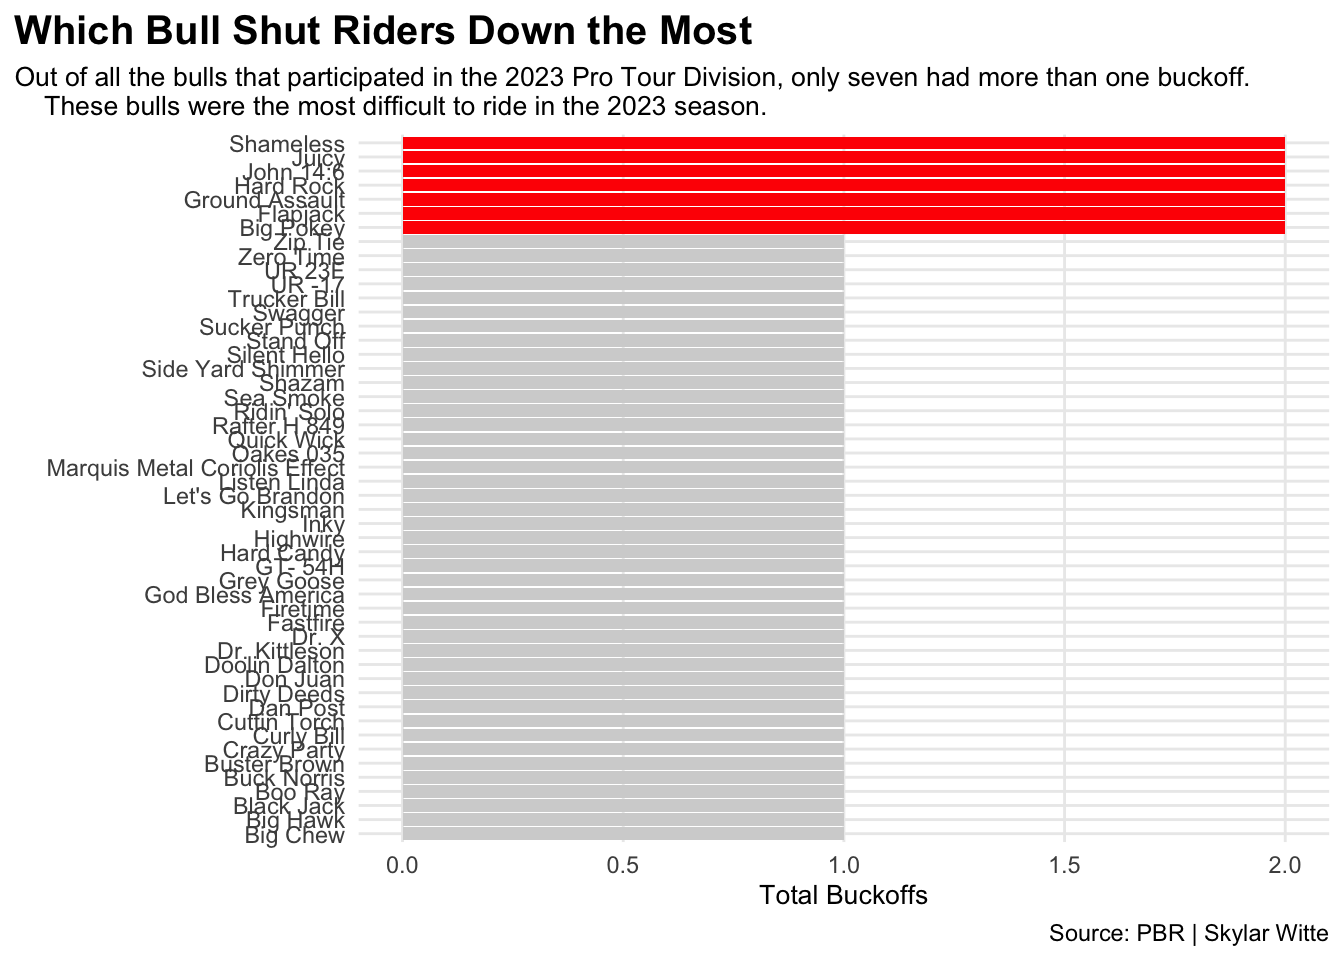
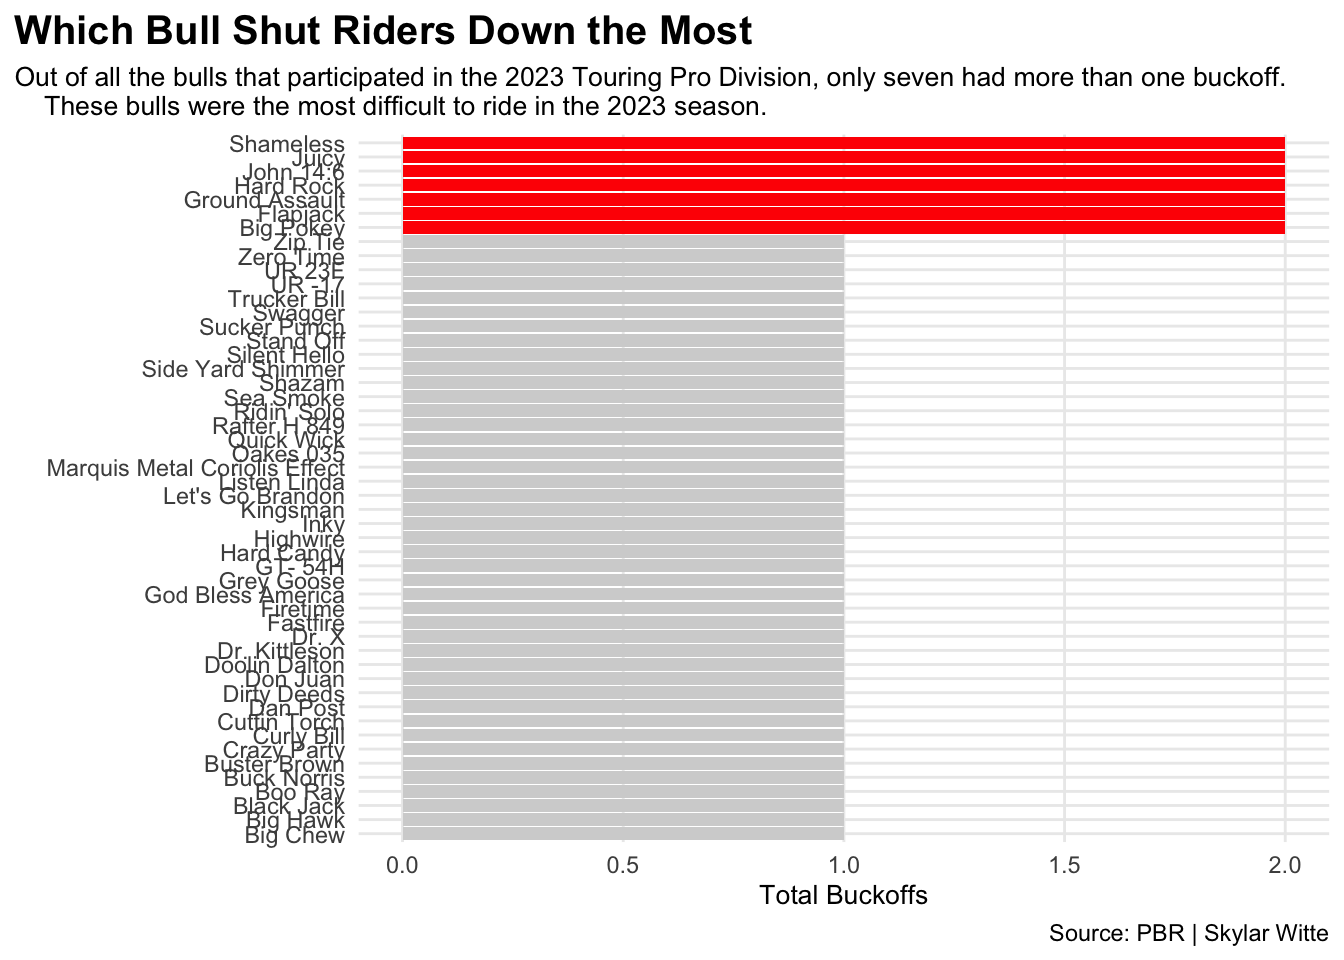
fix

Changed region(s): [[0.4062, 0.0625, 0.9688, 0.0938]]

diff --git a/posts/pbr-bull-stats-2023/index.html b/posts/pbr-bull-stats-2023/index.html
@@ -9,7 +9,7 @@
 <meta name="author" content="Skylar Witte">
 <meta name="dcterms.date" content="2025-12-09">
 
-<title>Which Bull Was The Best In The PBR 2023 Season – Skylar's Sports Blog</title>
+<title>Rank and Relentless: The Bulls That Defined the 2023 PBR Touring Pro Division Season – Skylar’s Sports Blog</title>
 <style>
 code{white-space: pre-wrap;}
 span.smallcaps{font-variant: small-caps;}
@@ -154,7 +154,7 @@ pre > code.sourceCode > span > a:first-child::before { text-decoration: underlin
 <header id="title-block-header" class="quarto-title-block default page-columns page-full">
   <div class="quarto-title-banner page-columns page-full">
     <div class="quarto-title column-body">
-      <h1 class="title">Which Bull Was The Best In The PBR 2023 Season</h1>
+      <h1 class="title">Rank and Relentless: The Bulls That Defined the 2023 PBR Touring Pro Division Season</h1>
                                 <div class="quarto-categories">
                 <div class="quarto-category">pbr</div>
                 <div class="quarto-category">bull riding</div>
@@ -197,7 +197,7 @@ pre > code.sourceCode > span > a:first-child::before { text-decoration: underlin
 
 
 <p>Typically when you think of bull riding, you think of the rider. After all, that’s who’s competing and winning all the money, so what else would you focus on?</p>
-<p>Many tend to forget that the second half of the points system and sport entirely is the bull itself. So, for this post, I will be analyzing which bulls had the strongest overall performances in the 2023 PBR Pro Division Tour using scoring, difficulty, and buck off characteristics. Here, we will identify the bulls that consistently challenged riders and produced the highest-quality trips.</p>
+<p>Many tend to forget that the second half of the points system and sport entirely is the bull itself. So, for this post, I will be analyzing which bulls had the strongest overall performances in the 2023 PBR Touring Pro Division using scoring, difficulty, and buck off characteristics. Here, we will identify the bulls that consistently challenged riders and produced the highest-quality trips.</p>
 <div class="cell">
 <details class="code-fold">
 <summary>Code</summary>
@@ -234,8 +234,7 @@ pre > code.sourceCode > span > a:first-child::before { text-decoration: underlin
 <div class="code-copy-outer-scaffold"><div class="sourceCode cell-code" id="cb5"><pre class="sourceCode r code-with-copy"><code class="sourceCode r"><span id="cb5-1"><a href="#cb5-1" aria-hidden="true" tabindex="-1"></a><span class="fu">library</span>(ggtext)</span>
 <span id="cb5-2"><a href="#cb5-2" aria-hidden="true" tabindex="-1"></a><span class="fu">library</span>(ggbeeswarm)</span>
 <span id="cb5-3"><a href="#cb5-3" aria-hidden="true" tabindex="-1"></a></span>
-<span id="cb5-4"><a href="#cb5-4" aria-hidden="true" tabindex="-1"></a></span>
-<span id="cb5-5"><a href="#cb5-5" aria-hidden="true" tabindex="-1"></a>bulls <span class="ot">&lt;-</span> <span class="fu">read_csv</span>(<span class="st">"data/Bulls_PBR_TPD_2023.csv"</span>)</span></code></pre></div><button title="Copy to Clipboard" class="code-copy-button"><i class="bi"></i></button></div>
+<span id="cb5-4"><a href="#cb5-4" aria-hidden="true" tabindex="-1"></a>bulls <span class="ot">&lt;-</span> <span class="fu">read_csv</span>(<span class="st">"data/Bulls_PBR_TPD_2023.csv"</span>)</span></code></pre></div><button title="Copy to Clipboard" class="code-copy-button"><i class="bi"></i></button></div>
 </details>
 <div class="cell-output cell-output-stderr">
 <pre><code>Rows: 50 Columns: 11
@@ -268,7 +267,7 @@ dbl (10): World Champ Avg Score, Events, Ridden, Outs, Rides, Buckoffs, Avg ...
 <span id="cb7-17"><a href="#cb7-17" aria-hidden="true" tabindex="-1"></a>    <span class="at">x=</span><span class="st">""</span>, </span>
 <span id="cb7-18"><a href="#cb7-18" aria-hidden="true" tabindex="-1"></a>    <span class="at">y=</span><span class="st">"Total Buckoffs"</span>, </span>
 <span id="cb7-19"><a href="#cb7-19" aria-hidden="true" tabindex="-1"></a>    <span class="at">title=</span><span class="st">"Which Bull Shut Riders Down the Most"</span>, </span>
-<span id="cb7-20"><a href="#cb7-20" aria-hidden="true" tabindex="-1"></a>    <span class="at">subtitle=</span><span class="st">"Out of all the bulls that participated in the 2023 Pro Tour Division, only seven had more than one buckoff.</span></span>
+<span id="cb7-20"><a href="#cb7-20" aria-hidden="true" tabindex="-1"></a>    <span class="at">subtitle=</span><span class="st">"Out of all the bulls that participated in the 2023 Touring Pro Division, only seven had more than one buckoff.</span></span>
 <span id="cb7-21"><a href="#cb7-21" aria-hidden="true" tabindex="-1"></a><span class="st">    These bulls were the most difficult to ride in the 2023 season."</span>, </span>
 <span id="cb7-22"><a href="#cb7-22" aria-hidden="true" tabindex="-1"></a>    <span class="at">caption=</span><span class="st">"Source: PBR | Skylar Witte"</span></span>
 <span id="cb7-23"><a href="#cb7-23" aria-hidden="true" tabindex="-1"></a>    ) <span class="sc">+</span></span>
@@ -315,18 +314,17 @@ dbl (10): World Champ Avg Score, Events, Ridden, Outs, Rides, Buckoffs, Avg ...
 <span id="cb8-18"><a href="#cb8-18" aria-hidden="true" tabindex="-1"></a>    <span class="at">x=</span><span class="st">"Average Bull Score"</span>, </span>
 <span id="cb8-19"><a href="#cb8-19" aria-hidden="true" tabindex="-1"></a>    <span class="at">y=</span><span class="st">"Average Buckoff Time"</span>, </span>
 <span id="cb8-20"><a href="#cb8-20" aria-hidden="true" tabindex="-1"></a>    <span class="at">title=</span><span class="st">"Bull Performance by Power, Buckoff Time, and Workload"</span>, </span>
-<span id="cb8-21"><a href="#cb8-21" aria-hidden="true" tabindex="-1"></a>    <span class="at">subtitle=</span><span class="st">"Here we compare average bull score and buckoff time, highlighting the bulls with the </span></span>
-<span id="cb8-22"><a href="#cb8-22" aria-hidden="true" tabindex="-1"></a><span class="st">    most buckoffs from the last graph. Bulls like Hard Rock and Juicy are where you want to be, as they </span></span>
-<span id="cb8-23"><a href="#cb8-23" aria-hidden="true" tabindex="-1"></a><span class="st">    combine high power with strong scoring potential."</span>, </span>
-<span id="cb8-24"><a href="#cb8-24" aria-hidden="true" tabindex="-1"></a>    <span class="at">caption=</span><span class="st">"Source: PBR | Skylar Witte"</span></span>
-<span id="cb8-25"><a href="#cb8-25" aria-hidden="true" tabindex="-1"></a>    ) <span class="sc">+</span></span>
-<span id="cb8-26"><a href="#cb8-26" aria-hidden="true" tabindex="-1"></a>  <span class="fu">theme_minimal</span>() <span class="sc">+</span> </span>
-<span id="cb8-27"><a href="#cb8-27" aria-hidden="true" tabindex="-1"></a>  <span class="fu">theme</span>(</span>
-<span id="cb8-28"><a href="#cb8-28" aria-hidden="true" tabindex="-1"></a>    <span class="at">plot.title =</span> <span class="fu">element_text</span>(<span class="at">size =</span> <span class="dv">17</span>, <span class="at">face =</span> <span class="st">"bold"</span>),</span>
-<span id="cb8-29"><a href="#cb8-29" aria-hidden="true" tabindex="-1"></a>    <span class="at">axis.title =</span> <span class="fu">element_text</span>(<span class="at">size =</span> <span class="dv">15</span>), </span>
-<span id="cb8-30"><a href="#cb8-30" aria-hidden="true" tabindex="-1"></a>    <span class="at">plot.subtitle =</span> <span class="fu">element_text</span>(<span class="at">size=</span><span class="dv">10</span>), </span>
-<span id="cb8-31"><a href="#cb8-31" aria-hidden="true" tabindex="-1"></a>    <span class="at">panel.grid.minor =</span> <span class="fu">element_blank</span>()</span>
-<span id="cb8-32"><a href="#cb8-32" aria-hidden="true" tabindex="-1"></a>    ) </span></code></pre></div><button title="Copy to Clipboard" class="code-copy-button"><i class="bi"></i></button></div>
+<span id="cb8-21"><a href="#cb8-21" aria-hidden="true" tabindex="-1"></a>    <span class="at">subtitle=</span><span class="st">"Bulls like Hard Rock and Juicy are where you want to be, as they combine </span></span>
+<span id="cb8-22"><a href="#cb8-22" aria-hidden="true" tabindex="-1"></a><span class="st">    high power with strong scoring potential."</span>, </span>
+<span id="cb8-23"><a href="#cb8-23" aria-hidden="true" tabindex="-1"></a>    <span class="at">caption=</span><span class="st">"Source: PBR | Skylar Witte"</span></span>
+<span id="cb8-24"><a href="#cb8-24" aria-hidden="true" tabindex="-1"></a>    ) <span class="sc">+</span></span>
+<span id="cb8-25"><a href="#cb8-25" aria-hidden="true" tabindex="-1"></a>  <span class="fu">theme_minimal</span>() <span class="sc">+</span> </span>
+<span id="cb8-26"><a href="#cb8-26" aria-hidden="true" tabindex="-1"></a>  <span class="fu">theme</span>(</span>
+<span id="cb8-27"><a href="#cb8-27" aria-hidden="true" tabindex="-1"></a>    <span class="at">plot.title =</span> <span class="fu">element_text</span>(<span class="at">size =</span> <span class="dv">17</span>, <span class="at">face =</span> <span class="st">"bold"</span>),</span>
+<span id="cb8-28"><a href="#cb8-28" aria-hidden="true" tabindex="-1"></a>    <span class="at">axis.title =</span> <span class="fu">element_text</span>(<span class="at">size =</span> <span class="dv">15</span>), </span>
+<span id="cb8-29"><a href="#cb8-29" aria-hidden="true" tabindex="-1"></a>    <span class="at">plot.subtitle =</span> <span class="fu">element_text</span>(<span class="at">size=</span><span class="dv">10</span>), </span>
+<span id="cb8-30"><a href="#cb8-30" aria-hidden="true" tabindex="-1"></a>    <span class="at">panel.grid.minor =</span> <span class="fu">element_blank</span>()</span>
+<span id="cb8-31"><a href="#cb8-31" aria-hidden="true" tabindex="-1"></a>    ) </span></code></pre></div><button title="Copy to Clipboard" class="code-copy-button"><i class="bi"></i></button></div>
 </details>
 <div class="cell-output-display">
 <div>
@@ -353,15 +351,17 @@ dbl (10): World Champ Avg Score, Events, Ridden, Outs, Rides, Buckoffs, Avg ...
 <span id="cb9-10"><a href="#cb9-10" aria-hidden="true" tabindex="-1"></a>    <span class="at">x=</span><span class="st">"Average Buckoff Time"</span>, </span>
 <span id="cb9-11"><a href="#cb9-11" aria-hidden="true" tabindex="-1"></a>    <span class="at">y=</span><span class="st">"Average Bull Score"</span>, </span>
 <span id="cb9-12"><a href="#cb9-12" aria-hidden="true" tabindex="-1"></a>    <span class="at">title=</span><span class="st">"How Buckoff Time Relates to Bull Power"</span>, </span>
-<span id="cb9-13"><a href="#cb9-13" aria-hidden="true" tabindex="-1"></a>    <span class="at">subtitle=</span><span class="st">"This scatterplot compares each bull’s average bull score with the average amount of time riders stayed on. Based on this chart, Hard Rock, who is highlighted, stands out as the best bull because it pairs one of the highest average scores with solid buckoff times, showing both power and consistency."</span>, <span class="at">caption=</span><span class="st">"Source: PBR | Skylar Witte"</span></span>
-<span id="cb9-14"><a href="#cb9-14" aria-hidden="true" tabindex="-1"></a>    ) <span class="sc">+</span></span>
-<span id="cb9-15"><a href="#cb9-15" aria-hidden="true" tabindex="-1"></a>  <span class="fu">theme_minimal</span>() <span class="sc">+</span> </span>
-<span id="cb9-16"><a href="#cb9-16" aria-hidden="true" tabindex="-1"></a>  <span class="fu">theme</span>(</span>
-<span id="cb9-17"><a href="#cb9-17" aria-hidden="true" tabindex="-1"></a>    <span class="at">plot.title =</span> <span class="fu">element_text</span>(<span class="at">size =</span> <span class="dv">17</span>, <span class="at">face =</span> <span class="st">"bold"</span>),</span>
-<span id="cb9-18"><a href="#cb9-18" aria-hidden="true" tabindex="-1"></a>    <span class="at">axis.title =</span> <span class="fu">element_text</span>(<span class="at">size =</span> <span class="dv">15</span>), </span>
-<span id="cb9-19"><a href="#cb9-19" aria-hidden="true" tabindex="-1"></a>    <span class="at">plot.subtitle =</span> <span class="fu">element_text</span>(<span class="at">size=</span><span class="dv">10</span>), </span>
-<span id="cb9-20"><a href="#cb9-20" aria-hidden="true" tabindex="-1"></a>    <span class="at">panel.grid.minor =</span> <span class="fu">element_blank</span>()</span>
-<span id="cb9-21"><a href="#cb9-21" aria-hidden="true" tabindex="-1"></a>    ) </span></code></pre></div><button title="Copy to Clipboard" class="code-copy-button"><i class="bi"></i></button></div>
+<span id="cb9-13"><a href="#cb9-13" aria-hidden="true" tabindex="-1"></a>    <span class="at">subtitle=</span><span class="st">"Hard Rock, who is highlighted, stands out as the best bull because he pairs one of the</span></span>
+<span id="cb9-14"><a href="#cb9-14" aria-hidden="true" tabindex="-1"></a><span class="st">    highest average scores with solid buckoff times, showing both power and consistency."</span>, </span>
+<span id="cb9-15"><a href="#cb9-15" aria-hidden="true" tabindex="-1"></a>    <span class="at">caption=</span><span class="st">"Source: PBR | Skylar Witte"</span></span>
+<span id="cb9-16"><a href="#cb9-16" aria-hidden="true" tabindex="-1"></a>    ) <span class="sc">+</span></span>
+<span id="cb9-17"><a href="#cb9-17" aria-hidden="true" tabindex="-1"></a>  <span class="fu">theme_minimal</span>() <span class="sc">+</span> </span>
+<span id="cb9-18"><a href="#cb9-18" aria-hidden="true" tabindex="-1"></a>  <span class="fu">theme</span>(</span>
+<span id="cb9-19"><a href="#cb9-19" aria-hidden="true" tabindex="-1"></a>    <span class="at">plot.title =</span> <span class="fu">element_text</span>(<span class="at">size =</span> <span class="dv">17</span>, <span class="at">face =</span> <span class="st">"bold"</span>),</span>
+<span id="cb9-20"><a href="#cb9-20" aria-hidden="true" tabindex="-1"></a>    <span class="at">axis.title =</span> <span class="fu">element_text</span>(<span class="at">size =</span> <span class="dv">15</span>), </span>
+<span id="cb9-21"><a href="#cb9-21" aria-hidden="true" tabindex="-1"></a>    <span class="at">plot.subtitle =</span> <span class="fu">element_text</span>(<span class="at">size=</span><span class="dv">10</span>), </span>
+<span id="cb9-22"><a href="#cb9-22" aria-hidden="true" tabindex="-1"></a>    <span class="at">panel.grid.minor =</span> <span class="fu">element_blank</span>()</span>
+<span id="cb9-23"><a href="#cb9-23" aria-hidden="true" tabindex="-1"></a>    ) </span></code></pre></div><button title="Copy to Clipboard" class="code-copy-button"><i class="bi"></i></button></div>
 </details>
 <div class="cell-output cell-output-stderr">
 <pre><code>`geom_smooth()` using formula = 'y ~ x'</code></pre>
@@ -374,6 +374,8 @@ dbl (10): World Champ Avg Score, Events, Ridden, Outs, Rides, Buckoffs, Avg ...
 </div>
 </div>
 </div>
+<p>For my final visualization, I created a scatterplot using the top seven bull’s average bull score and average buck off time. I wanted to show how the bull’s scoring strength relates to how long the rider stays on. From this chart, Hard Rock stands out among the rest. He shows a strong balance of high average bull score and good buck off time, meaning that Hard Rock consistently delivered powerful rides that were challenging to riders while still giving judges enough of a show to get a good score.</p>
+<p>In summary, Hard Rock consistently appeared at the top across many different statistics. This makes him the most dominant bull of the 2023 PBR Touring Pro Division.</p>
 
 
 
